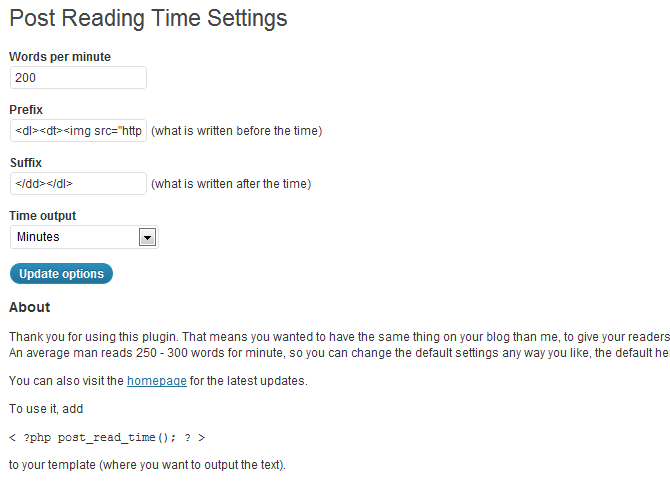
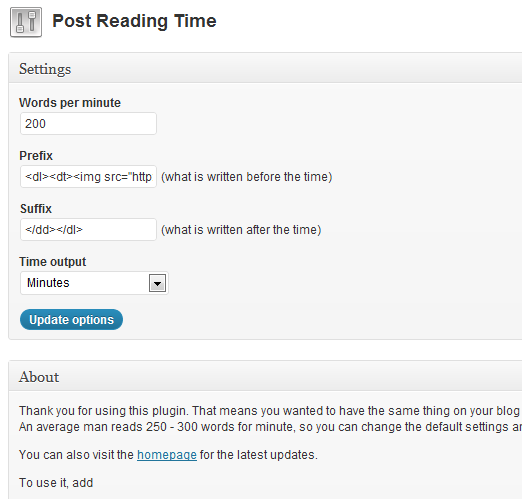
Cosmetic surgery in the admin area.
git-svn-id: https://plugins.svn.wordpress.org/post-reading-time/trunk@579238 b8457f37-d9ea-0310-8a92-e5e31aec5664

diff --git a/post-readtime.php b/post-readtime.php
@@ -4,7 +4,7 @@
 		Plugin Name: Post Reading Time
 		Plugin URI: http://wpplugz.is-leet.com
 		Description: A simple wordpress plugin that estimates the time a reader will need to go through the article.
-		Version: 0.1
+		Version: 0.2
 		Author: Bostjan Cigan
 		Author URI: http://bostjan.gets-it.net
 		License: GPL v2
@@ -59,28 +59,34 @@
 		
 ?>
 
-		<div class="wrap">
-			<h2>Post Reading Time Settings</h2>
-			<p><strong><?php echo $message; ?></strong></p>
-			<form method="post" action="">
-				<p><strong>Words per minute</strong> <br /><input type="text" name="pr_wpm" value="<?php echo $wpm; ?>" /></p>
-				<p><strong>Prefix</strong> <br /><input type="text" name="pr_prefix" value="<?php echo $prefix; ?>" /> (what is written before the time)</p>
-				<p><strong>Suffix</strong> <br /><input type="text" name="pr_suffix" value="<?php echo $suffix; ?>" /> (what is written after the time)</p>
-				<p><strong>Time output</strong> <br /><select id="pr_time" name="pr_time">
+		<div id="icon-options-general" class="icon32"></div><h2>Post Reading Time</h2>
+		<div id="poststuff">
+        	<div class="postbox"><h3>Settings</h3>
+            	<div class="inside less">
+					<p><strong><?php echo $message; ?></strong></p>
+					<form method="post" action="">
+					<p><strong>Words per minute</strong> <br /><input type="text" name="pr_wpm" value="<?php echo $wpm; ?>" /></p>
+					<p><strong>Prefix</strong> <br /><input type="text" name="pr_prefix" value="<?php echo $prefix; ?>" /> (what is written before the time)</p>
+					<p><strong>Suffix</strong> <br /><input type="text" name="pr_suffix" value="<?php echo $suffix; ?>" /> (what is written after the time)</p>
+					<p><strong>Time output</strong> <br /><select id="pr_time" name="pr_time">
 									<option value="1" <?php if($time == "1") { echo 'selected="selected"'; } ?>>Minutes</option>
 									<option value="2" <?php if($time == "2") { echo 'selected="selected"'; } ?>>Minutes and seconds</option>
 								</select>
-				</p>
-				<input type="submit" name="Submit" class="button-primary" value="<?php esc_attr_e('Update options') ?>" />
-			</form>
-			<h3>About</h3>
-			<p>Thank you for using this plugin. That means you wanted to have the same thing on your blog than me, to give your readers an estimate on 
-			how long they need to read your post.<br />An average man reads 250 - 300 words for minute, so you can change the
-			default settings any way you like, the default here is 200 words per minute. That's pretty much it.</p> 
-			<p>You can also visit the <a href="http://wpplugz.is-leet.com">homepage</a> for the latest updates.</p>
-			<p>To use it, add <pre>< ?php post_read_time(); ? ></pre> to your template (where you want to output the 
-			text).</p>
-
+					</p>
+					<input type="submit" name="Submit" class="button-primary" value="<?php esc_attr_e('Update options') ?>" />
+					</form>
+            	</div>
+            </div>
+            <div class="postbox"><h3>About</h3>
+            	<div class="inside less">
+				<p>Thank you for using this plugin. That means you wanted to have the same thing on your blog than me, to give your readers an estimate on 
+				how long they need to read your post.<br />An average man reads 250 - 300 words for minute, so you can change the
+				default settings any way you like, the default here is 200 words per minute. That's pretty much it.</p> 
+				<p>You can also visit the <a href="http://wpplugz.is-leet.com">homepage</a> for the latest updates.</p>
+				<p>To use it, add <pre>< ?php post_read_time(); ? ></pre> to your template (where you want to output the 
+				text).</p>
+                </div>
+			</div>
 		</div>
 
 <?php
